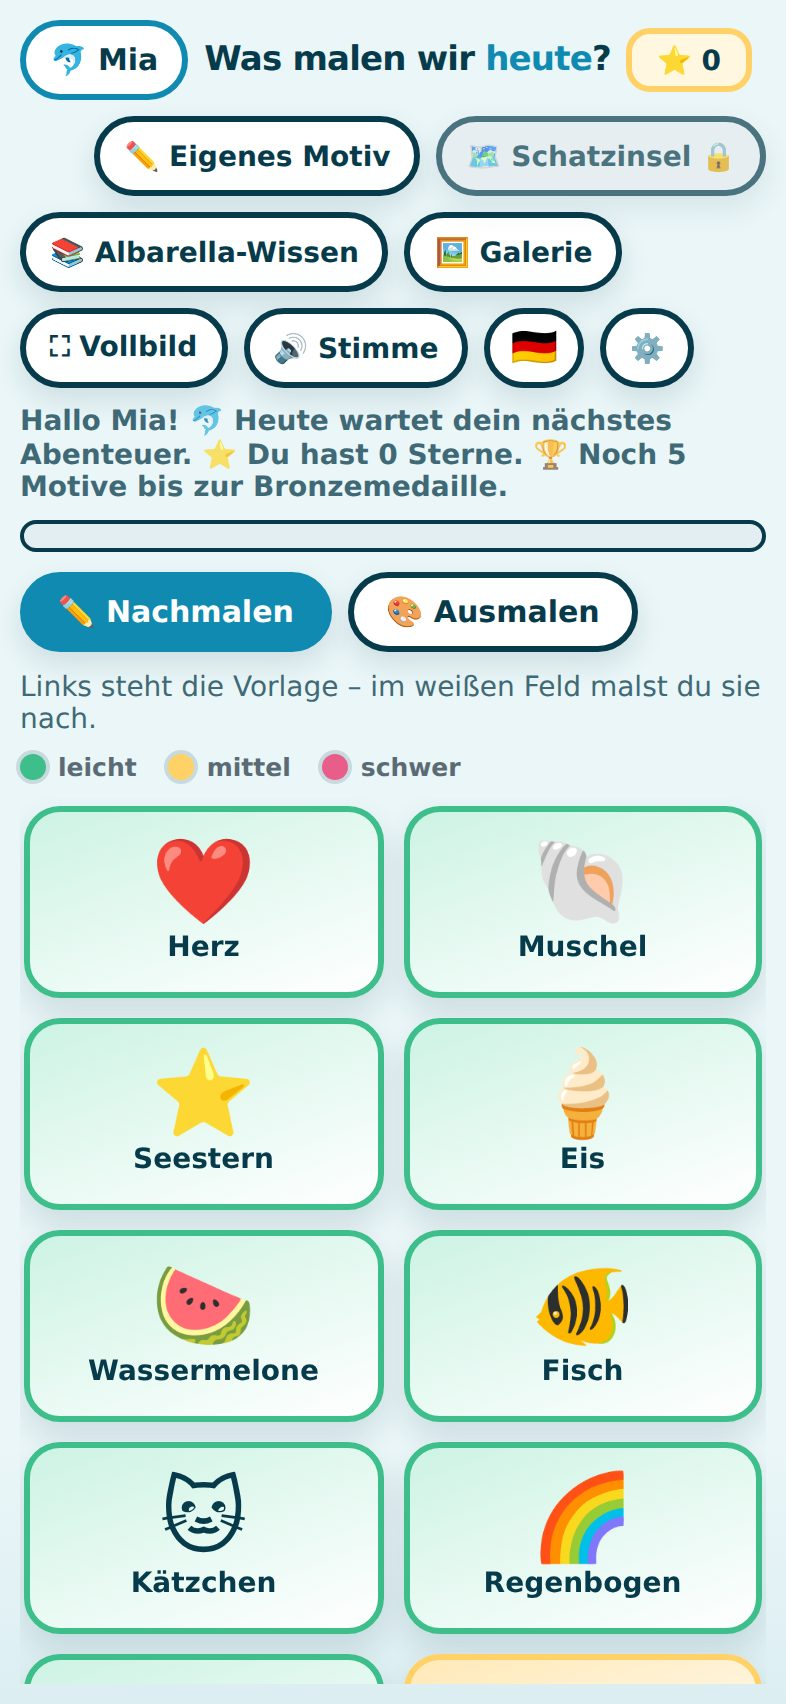
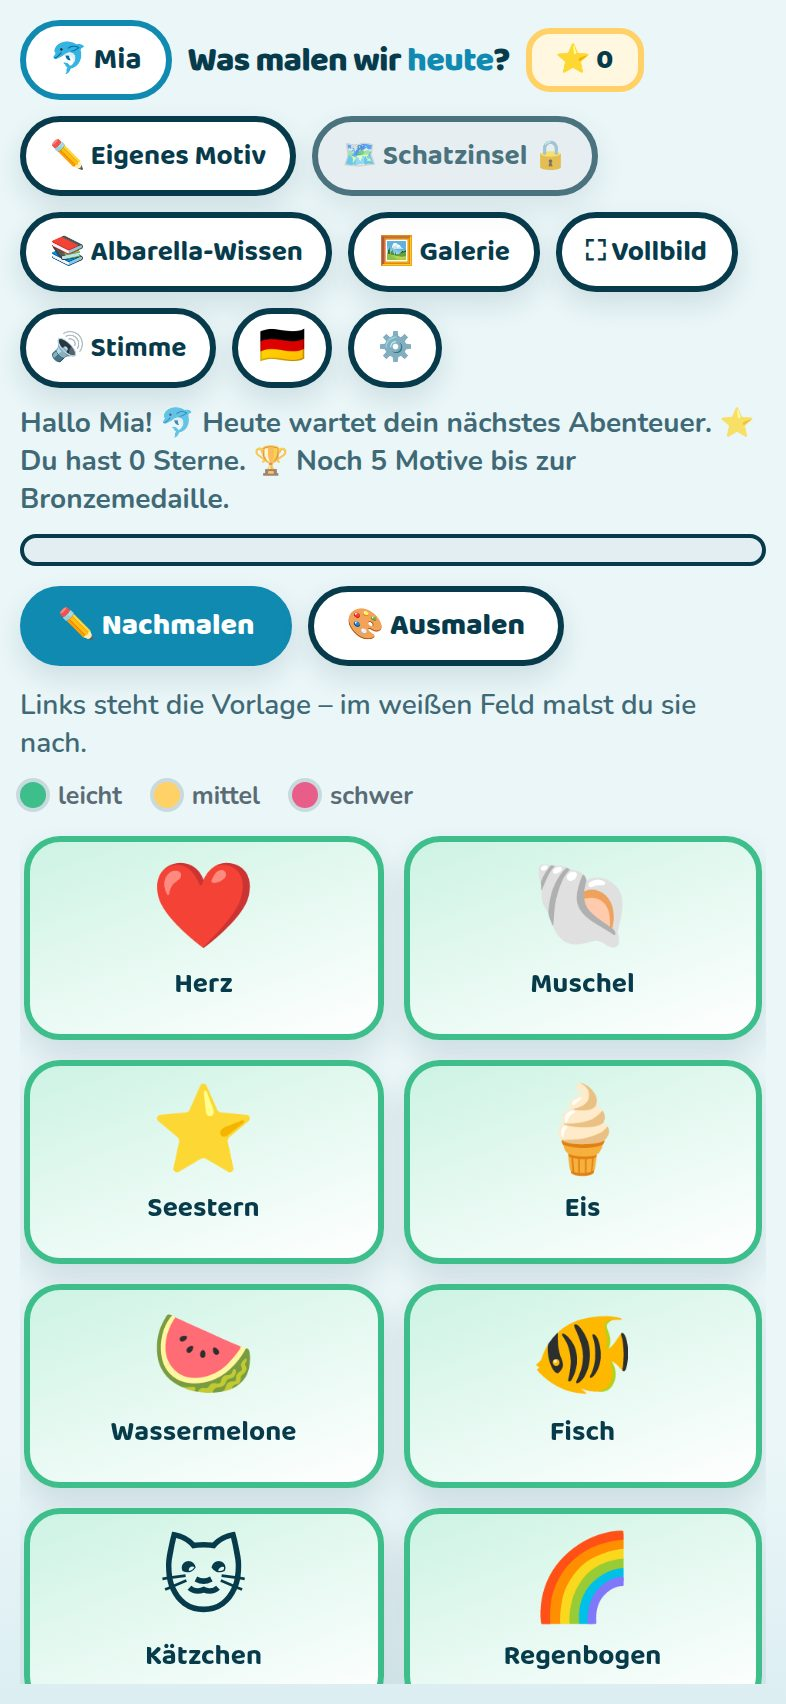
gen-fonts.js kann jetzt auch die Schriften des Malstudios einbetten
node tools/gen-fonts.js              → wie bisher, für diese App
  node tools/gen-fonts.js malstudio    → für die Schwester-App

Warum hier und nicht drüben: Das Werkzeug lag schon, es ein zweites Mal zu
schreiben wäre die schlechtere Lösung. Nur Quelle und Ziel unterscheiden
sich; das Ziel nennt MALSTUDIO=…, sonst wird ../malstudio angenommen. Der
Standardaufruf erzeugt weiterhin byte-identisch dieselbe fonts.css wie
vorher – geprüft.

Anlass: Das Malstudio holt seine vier Schriften bei jedem Start von Google.
Das ist der einzige Abruf nach außen in allen drei Apps. Er gibt die
IP-Adresse preis – und er bricht den Offline-Betrieb, weil die Schriften in
keinem Service-Worker-Vorrat stehen. Ohne Netz fällt die App auf
Systemschriften zurück.

Das war an den bisherigen Beispielbildern zu sehen, ohne dass es jemandem
auffiel: Der Testbrowser hier hat kein Internet, also zeigten alle
Malstudio-Aufnahmen die Ersatzschrift statt Baloo 2, Grandstander und
Caveat. Die Bilder sind neu erzeugt und zeigen nun die gemeinte Typografie.

Die erzeugte fonts.css (642 kB, elf Schnitte, nur „latin“) und die drei
Änderungen an index.html und sw.js gehören ins andere Repo und liegen dort
noch nicht. Bis sie eingespielt sind, bleibt der Google-Absatz in der
Datenschutzerklärung stehen – sie beschreibt die ausgelieferte App, nicht
die gemeinte. Beide Kästen sagen das jetzt so.

Changed region(s): [[0.0, 0.0, 0.9771, 0.9953], [0.916, 0.2177, 0.9466, 0.2799]]

diff --git a/tools/gen-fonts.js b/tools/gen-fonts.js
@@ -3,35 +3,73 @@
 /* ============================================================================
    Erzeugt fonts.css neu.
 
-     node tools/gen-fonts.js
+     node tools/gen-fonts.js              → für diese App
+     node tools/gen-fonts.js malstudio    → für die Schwester-App
 
-   Holt die drei Schriften einmalig von Google Fonts und legt sie als
-   Daten-URI in fonts.css ab. Danach braucht die App keinen externen Abruf
-   mehr – das ist der einzige Zweck dieses Skripts. Es läuft nicht beim
-   Ausliefern, sondern nur, wenn die Schriften ausgetauscht werden sollen.
+   Holt die Schriften einmalig von Google Fonts und legt sie als Daten-URI
+   in fonts.css ab. Danach braucht die App keinen externen Abruf mehr – das
+   ist der einzige Zweck dieses Skripts. Es läuft nicht beim Ausliefern,
+   sondern nur, wenn die Schriften ausgetauscht werden sollen.
 
    Eingebettet wird ausschließlich der Schnitt „latin“. Er deckt Deutsch
    samt Umlauten und ß ab; die übrigen Schnitte würden die Datei ohne
    Nutzen vervielfachen.
+
+   Warum hier auch das Malstudio steht, obwohl es in einem eigenen Repo
+   liegt: Es holt seine Schriften bislang bei jedem Start von Google. Das
+   ist der einzige Abruf nach außen in allen drei Apps – er bricht den
+   Offline-Betrieb (die Schriften stehen in keinem Service-Worker-Vorrat)
+   und zwingt der Datenschutzerklärung einen Absatz über einen
+   Drittanbieter auf. Das Werkzeug lag hier schon; es doppelt zu schreiben
+   wäre die schlechtere Lösung gewesen.
+
+   Das Ziel liegt dann außerhalb dieses Repos. Wo, sagt MALSTUDIO=…,
+   sonst wird ../malstudio angenommen.
    ========================================================================== */
 
 const fs = require('fs');
 const path = require('path');
 const https = require('https');
 
-const SOURCE = 'https://fonts.googleapis.com/css2' +
-  '?family=Fraunces:opsz,wght@9..144,400;9..144,600' +
-  '&family=Work+Sans:wght@400;500;600' +
-  '&family=IBM+Plex+Mono:wght@400;500' +
-  '&display=swap';
+const WURZEL = path.join(__dirname, '..');
+
+const SAETZE = {
+  mandala: {
+    quelle: 'https://fonts.googleapis.com/css2' +
+      '?family=Fraunces:opsz,wght@9..144,400;9..144,600' +
+      '&family=Work+Sans:wght@400;500;600' +
+      '&family=IBM+Plex+Mono:wght@400;500' +
+      '&display=swap',
+    ziel: path.join(WURZEL, 'fonts.css')
+  },
+  malstudio: {
+    quelle: 'https://fonts.googleapis.com/css2' +
+      '?family=Baloo+2:wght@500;700;800' +
+      '&family=Caveat:wght@600;700' +
+      '&family=Grandstander:wght@700;800' +
+      '&family=Nunito:wght@600;700;800;900' +
+      '&display=swap',
+    ziel: path.join(process.env.MALSTUDIO || path.join(WURZEL, '..', 'malstudio'),
+                    'fonts.css')
+  }
+};
+
+const WAHL = process.argv[2] || 'mandala';
+const SATZ = SAETZE[WAHL];
+
+if (!SATZ) {
+  console.error('Unbekannt: ' + WAHL + '. Möglich sind: ' + Object.keys(SAETZE).join(', '));
+  process.exit(1);
+}
+
+const SOURCE = SATZ.quelle;
+const TARGET = SATZ.ziel;
 
 /* Ohne Browser-Kennung liefert Google eine Fassung ohne woff2. */
 const HEADERS = {
   'user-agent': 'Mozilla/5.0 (Macintosh; Intel Mac OS X 10_15_7) ' +
                 'AppleWebKit/537.36 (KHTML, like Gecko) Chrome/120 Safari/537.36'
 };
-
-const TARGET = path.join(__dirname, '..', 'fonts.css');
 
 function fetch(url) {
   return new Promise(function (resolve, reject) {
@@ -78,7 +116,7 @@ function fetch(url) {
   }
 
   fs.writeFileSync(TARGET, out);
-  console.log('\ngeschrieben: fonts.css  (' + Math.round(out.length / 1024) + ' kB)');
+  console.log('\ngeschrieben: ' + TARGET + '  (' + Math.round(out.length / 1024) + ' kB)');
 })().catch(function (err) {
   console.error(err.message || err);
   process.exit(1);

diff --git a/datenschutz.html b/datenschutz.html
@@ -359,14 +359,15 @@
     <ol style="margin-bottom:0">
       <li>Alle <span class="luecke">gelb hinterlegten Stellen</span> ausfüllen.
           Ohne Name, Anschrift und Kontakt ist die Erklärung unwirksam.</li>
-      <li><b>Die Google-Schriften im Malstudio besser abstellen.</b> Sie sind
-          der einzige Grund, warum diese Erklärung überhaupt eine Übermittlung
-          an einen Dritten nennen muss. Das Mandala Atelier zeigt, wie es ohne
-          geht: <code>tools/gen-fonts.js</code> bettet die Schriften als
-          Daten-URI ein. Danach kann der ganze Absatz zu Google entfallen – und
-          die Apps sind ausnahmslos offline. Für eine Kinder-App ist das nicht
-          nur sauberer, es erspart auch die Diskussion um Auftragsverarbeitung
-          und Drittlandübermittlung.</li>
+      <li><b>Der Google-Absatz kann bald weg.</b> Die Schrifteinbettung fürs
+          Malstudio ist erzeugt und geprüft (<code>tools/gen-fonts.js
+          malstudio</code> im Mandala-Repo), aber noch nicht in die
+          ausgelieferte App eingespielt. <b>Solange sie es nicht ist, muss der
+          Absatz stehen bleiben</b> – diese Erklärung beschreibt die App, wie
+          sie ausgeliefert wird, nicht wie sie gemeint ist. Sobald die neue
+          Fassung online ist: Absatz löschen, Stand hochsetzen. Danach sind
+          alle drei Apps ausnahmslos offline, und die Diskussion um
+          Drittlandübermittlung entfällt.</li>
       <li><b>Diese Seite ersetzt keine Rechtsberatung.</b> Sie beschreibt das
           Verhalten der Apps genau so, wie es im Quelltext steht, und ist als
           belastbare Grundlage gedacht. Wer auf Nummer sicher gehen will, lässt

diff --git a/PA-APPS.html b/PA-APPS.html
@@ -898,13 +898,16 @@
         <li>Das Malstudio liegt in einem <strong>eigenen Repo</strong>
             (<code>pahlborn/malstudio</code>) und wäre eine dritte, getrennte
             Einreichung mit eigener Bundle-ID.</li>
-        <li><strong>Die Google-Schriften abstellen.</strong> Sie sind der
-            einzige Grund, warum die Datenschutzerklärung überhaupt eine
-            Übermittlung an einen Dritten nennen muss – bei einer Kinder-App
-            der unnötigste aller Streitpunkte. Das Mandala Atelier zeigt mit
-            <code>tools/gen-fonts.js</code>, wie es ohne geht: Schriften als
-            Daten-URI einbetten. Danach sind alle drei Apps ausnahmslos
-            offline.</li>
+        <li><strong>Die Google-Schriften sind abgestellt – aber noch nicht
+            eingespielt.</strong> <code>tools/gen-fonts.js malstudio</code>
+            erzeugt jetzt auch für die Schwester-App eine lokale
+            <code>fonts.css</code> (642 kB, elf Schnitte, nur „latin“). Die
+            Änderung ist erzeugt und geprüft: bei blockiertem Netz lädt die App
+            ihre Schriften vollständig und ruft <em>nichts</em> mehr nach außen.
+            Sie liegt aber im anderen Repo und muss dort noch eingespielt
+            werden. Erst danach darf der Google-Absatz aus der
+            <a href="./datenschutz.html">Datenschutzerklärung</a>
+            verschwinden.</li>
         <li>Die Beispielbilder oben zeigen ein frisch angelegtes Profil „Mia“.
             Für den Store sollten es Aufnahmen mit gefüllter Galerie sein.</li>
       </ul>
